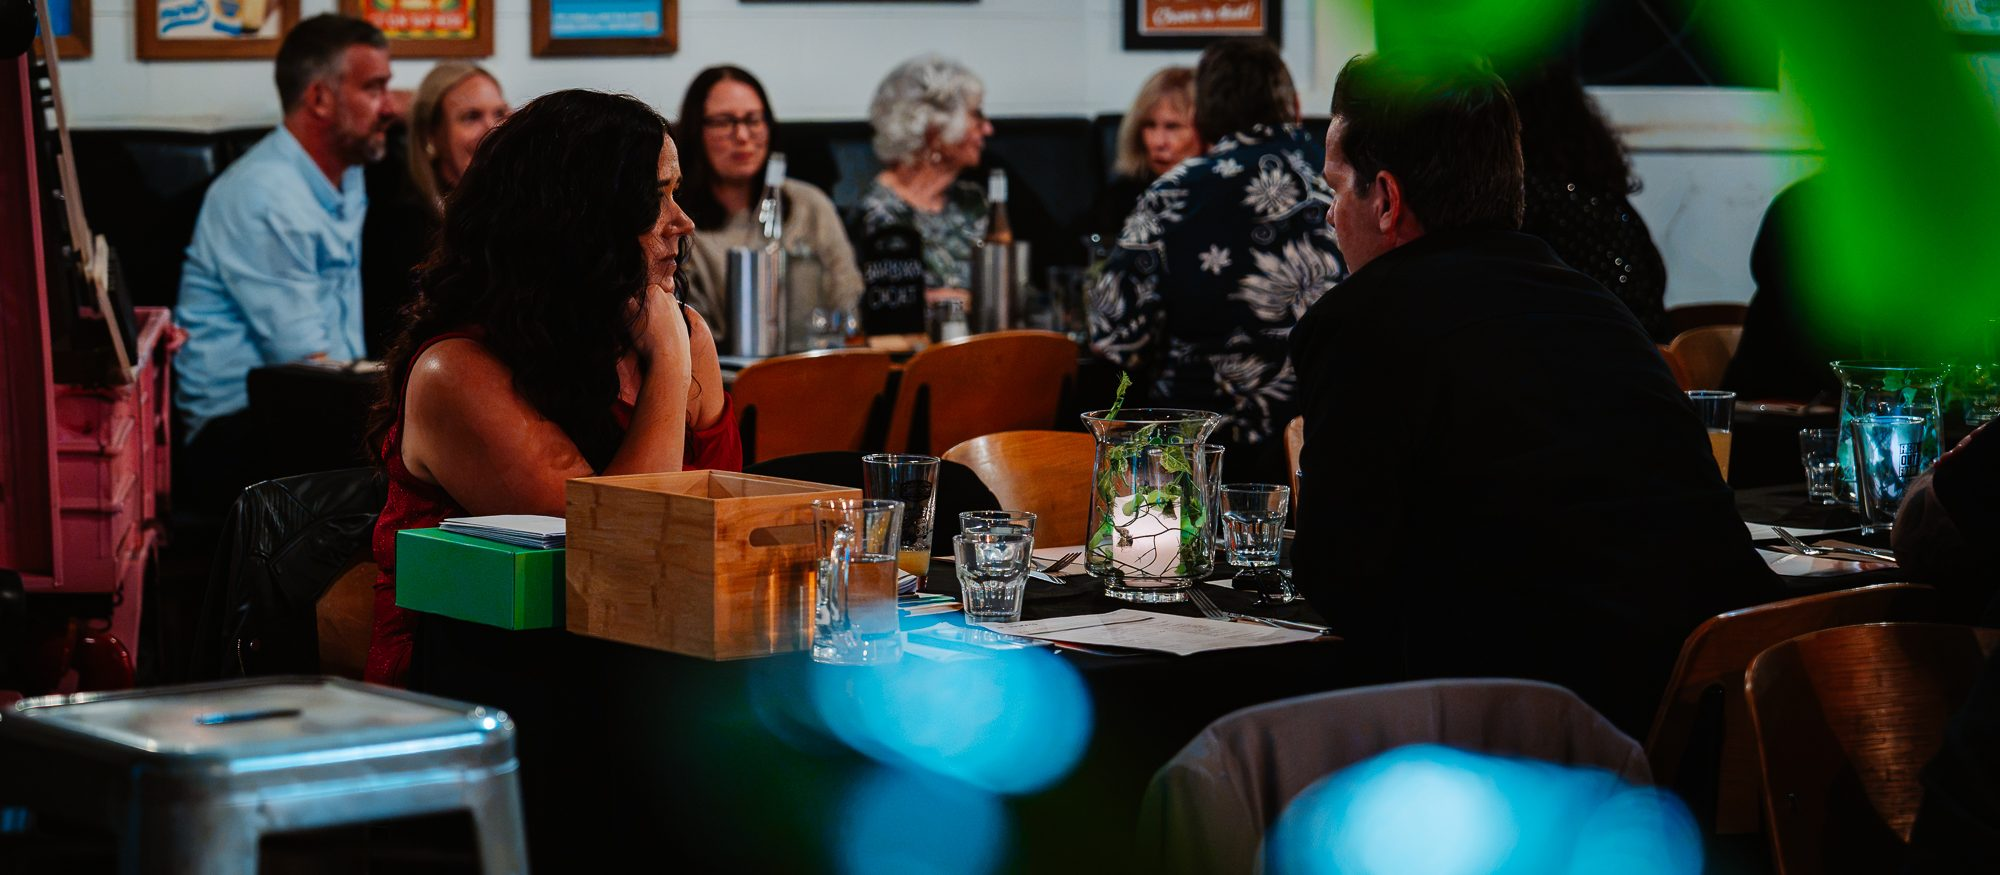
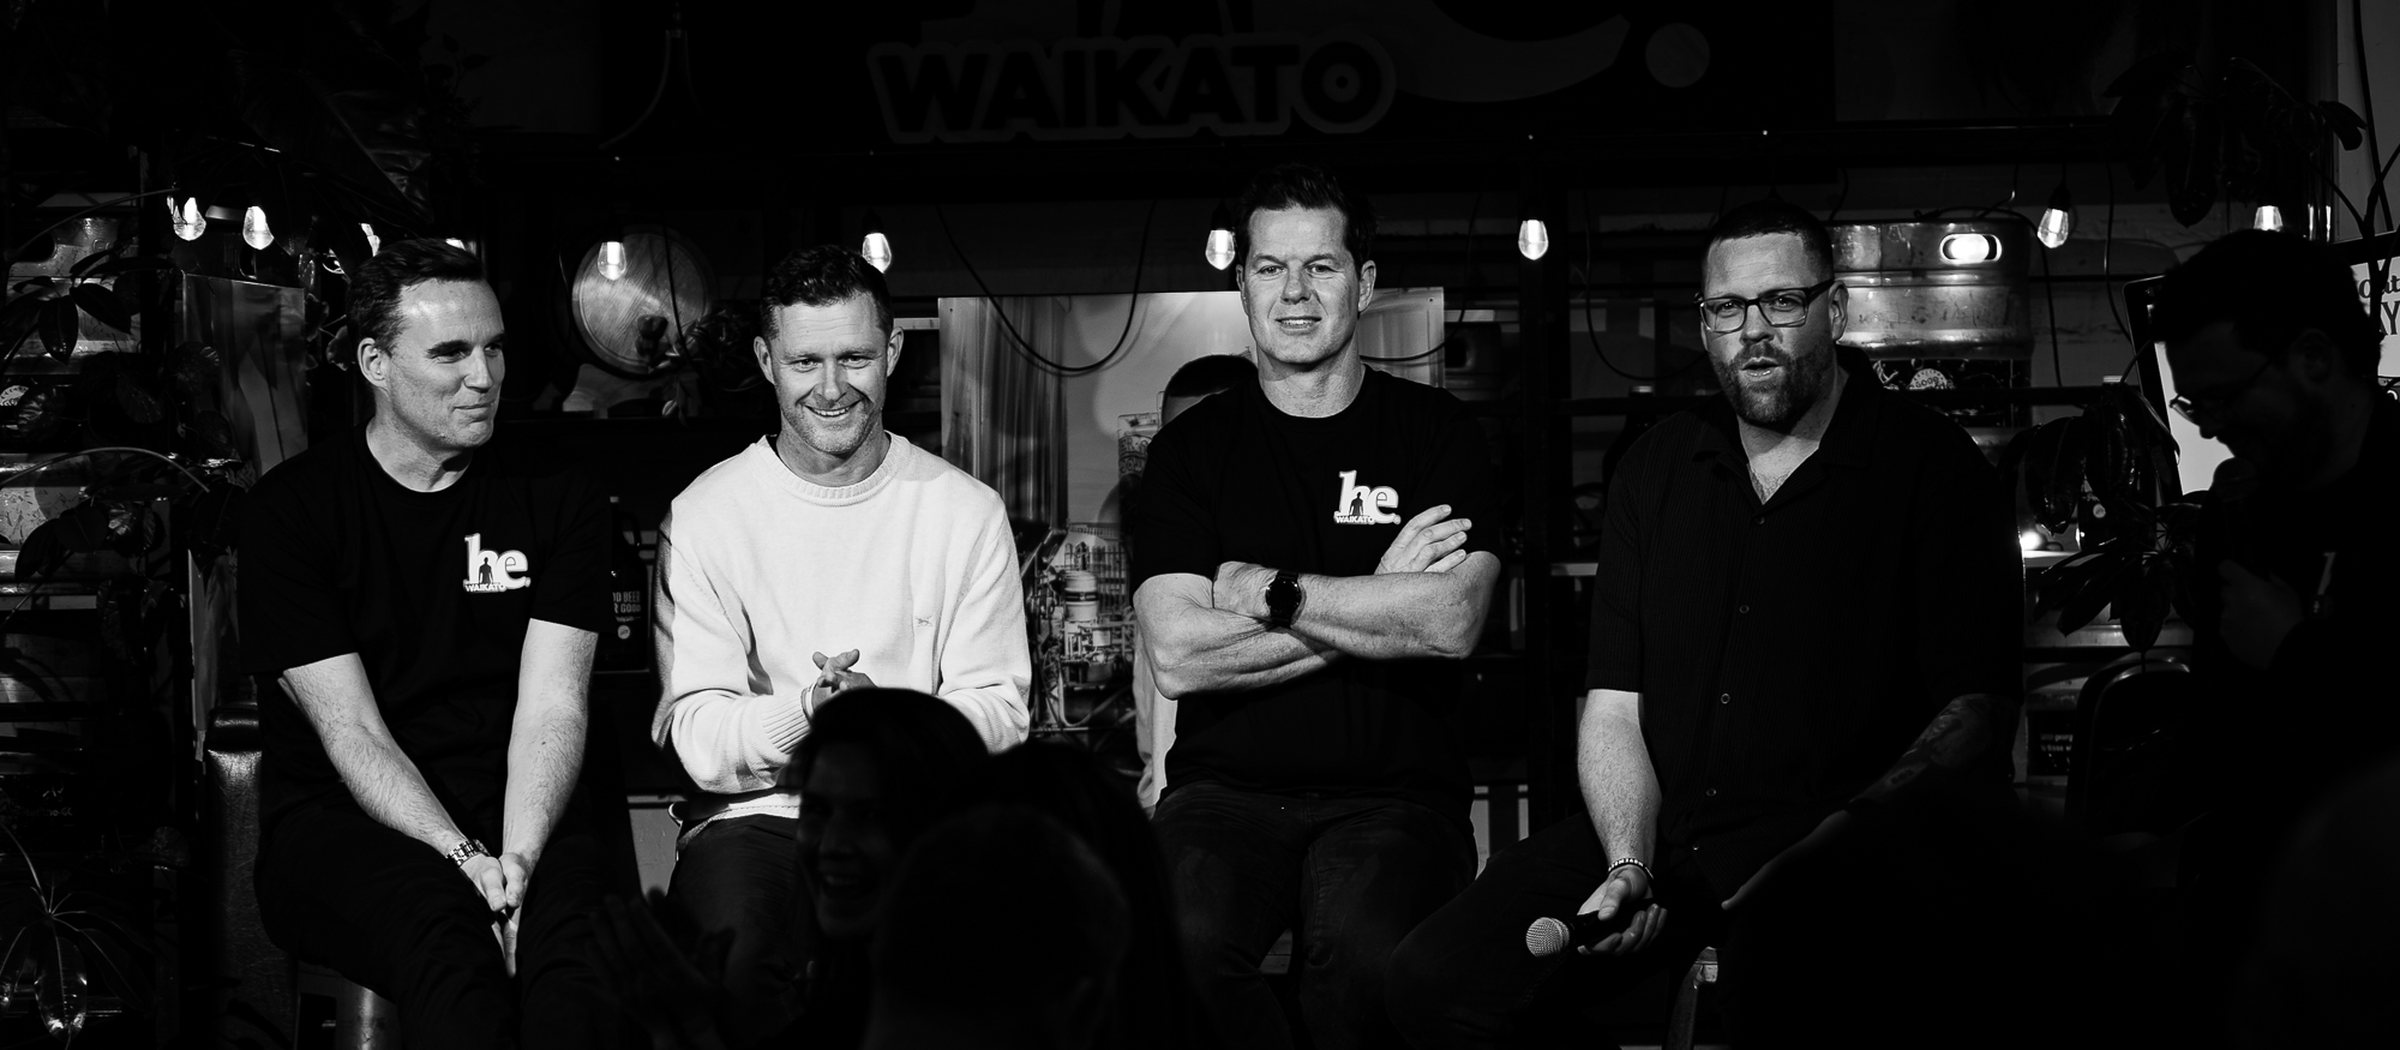
Events: He. Waikato panel as hero
Claude-Session: https://claude.ai/code/session_01VA5kN6YvoouDBQV9ahBGxj

diff --git a/events.html b/events.html
@@ -72,7 +72,7 @@
 <section class="container">
   <figure>
     <div class="photo ratio-16-7">
-      <img src="images/events/hero.jpg" alt="Guests mingling at tables at a He. Waikato evening">
+      <img src="images/events/hero.jpg" alt="Black and white: the He. Waikato panel sharing a laugh on stage, the crowd in silhouette">
     </div>
     <figcaption>He. Waikato</figcaption>
   </figure>
